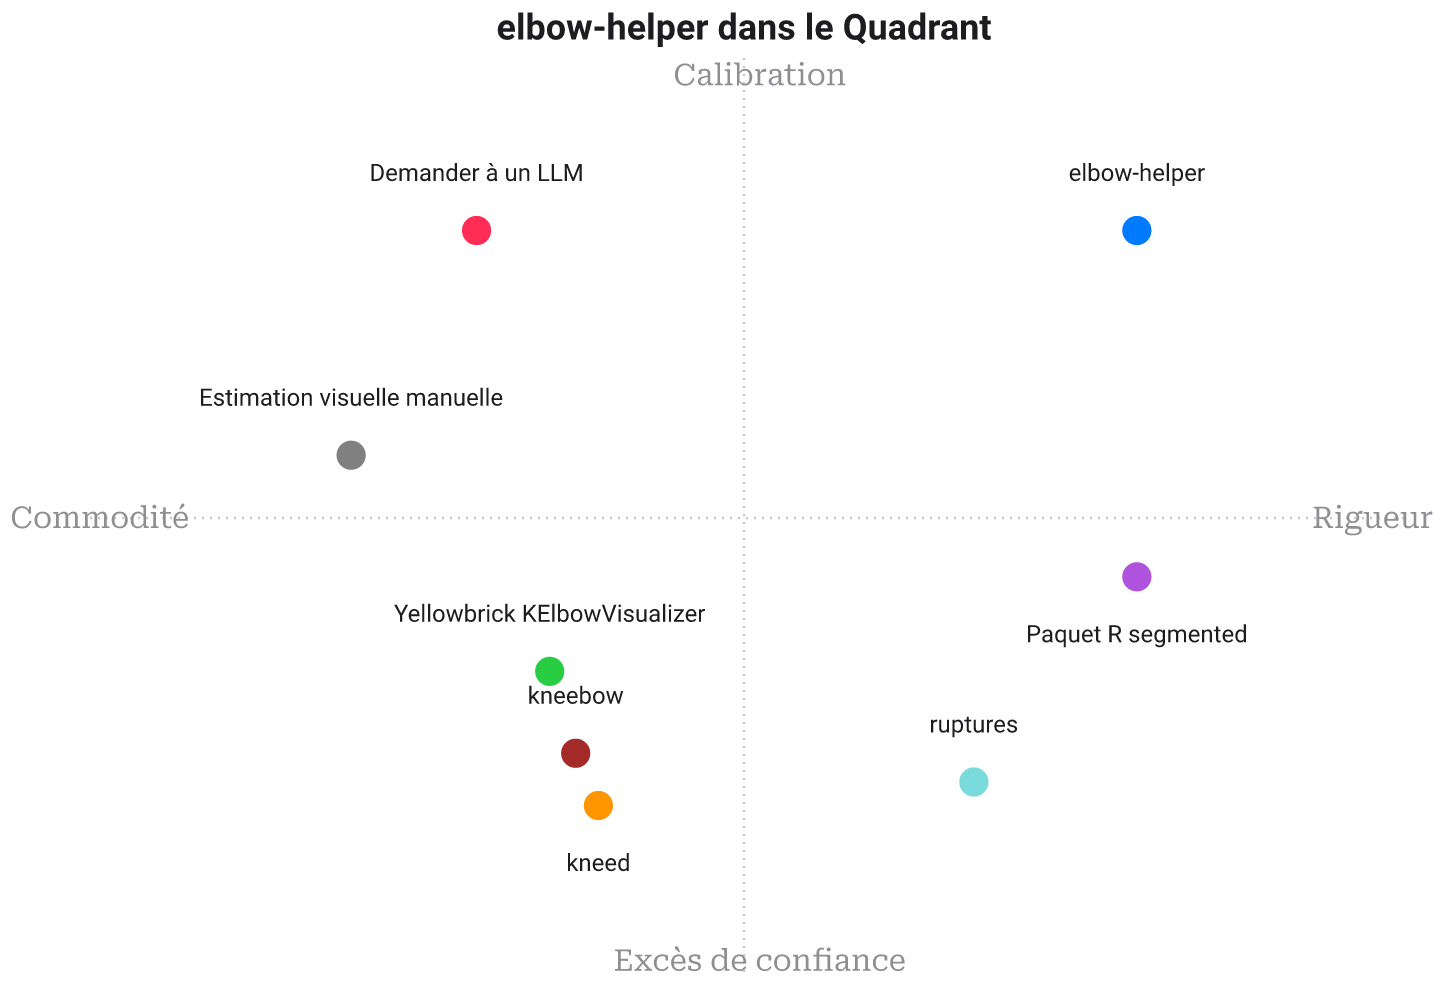
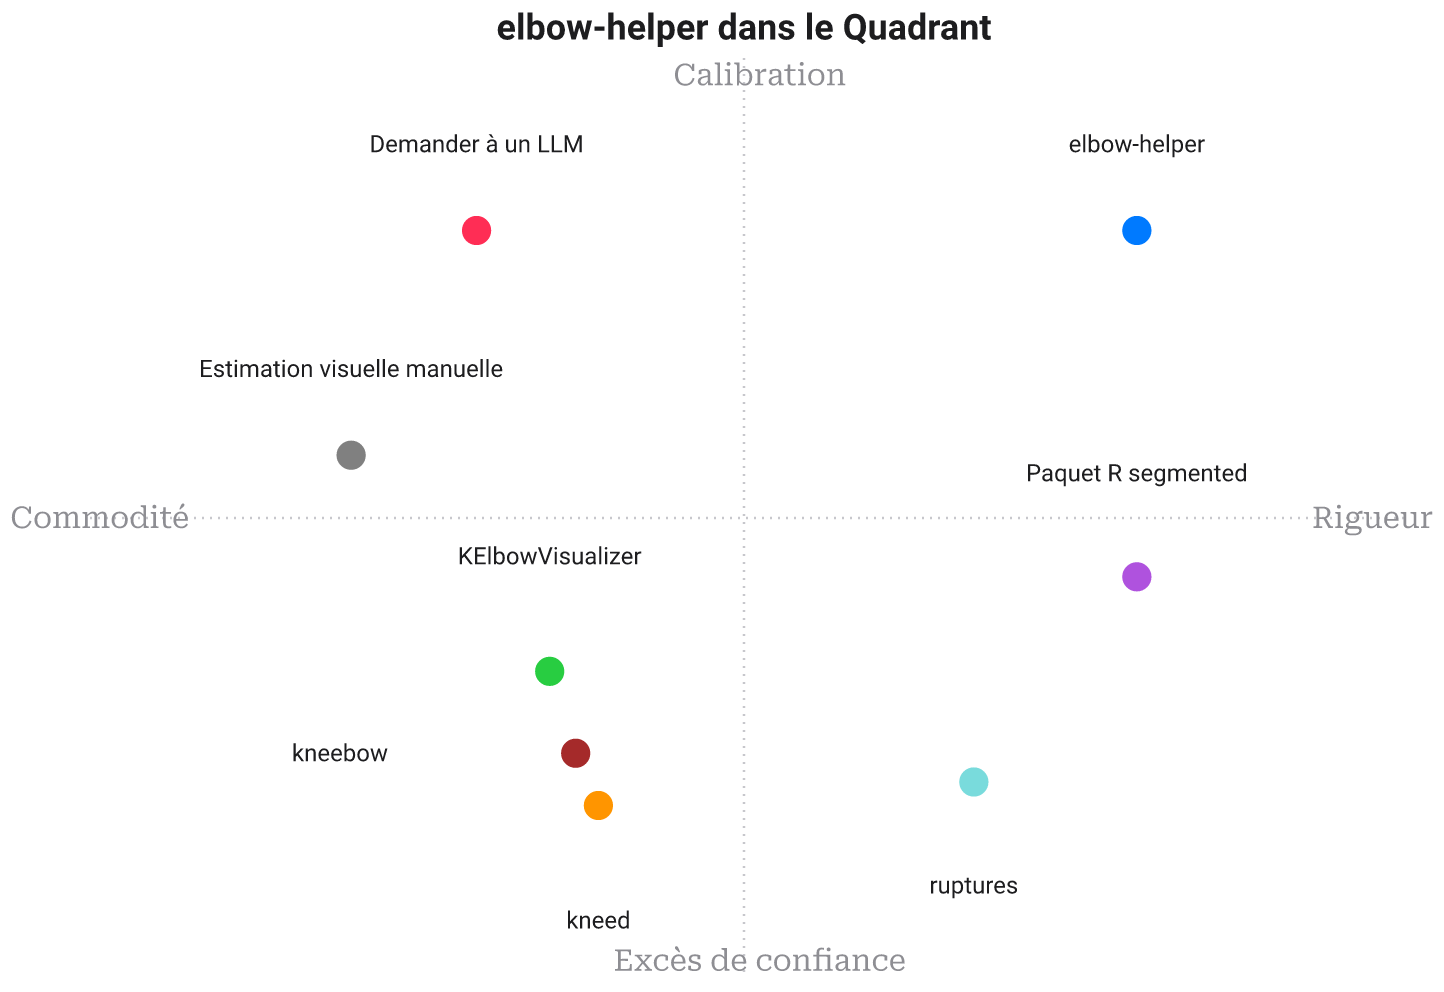
Fix label crowding in the landscape quadrant and sync tables from CSV
Each of the three close-together bottom-left points (KElbowVisualizer,
kneebow, kneed) now gets its own direction (up, left, down) instead of
stacking labels in the same band; text no longer sits on top of its own
or a neighbour's dot. Also regenerates the LANDSCAPE.md/PAYSAGE.md star
tables directly from assets/landscape.csv and assets/paysage.csv, and
carries over the CSV's own shortened KElbowVisualizer row label.

diff --git a/LANDSCAPE.md b/LANDSCAPE.md
@@ -12,13 +12,13 @@ How `elbow-helper` compares to *every other way of finding a knee*. Each approac
 
 ![Positioning map: elbow-helper vs. other knee/elbow detection approaches](assets/landscape.png)
 
-| Knee/Elbow Detection Tool | Noise Robustness | Automatic Shape Inference | Explicit Abstention | Multiple Breakpoints | Statistical Significance Testing | Uncertainty Quantification | Model-Selection Rigor | Dependency Footprint | One-Call Ease of Use | Reproducibility | Published Math/Derivation |
+| Elbow Detection Tool | Noise Robustness | Automatic Shape Inference | Explicit Abstention | Multiple Breakpoints | Statistical Significance Testing | Uncertainty Quantification | Model-Selection Rigor | Dependency Footprint | One-Call Ease of Use | Reproducibility | Published Math/Derivation |
 | --- | --- | --- | --- | --- | --- | --- | --- | --- | --- | --- | --- |
 | **elbow-helper** | ⭐⭐⭐⭐⭐ | ⭐⭐⭐⭐⭐ | ⭐⭐⭐⭐⭐ | ⭐⭐⭐⭐⭐ | ⭐⭐⭐⭐⭐ | ⭐⭐⭐⭐⭐ | ⭐⭐⭐⭐⭐ | ⭐⭐⭐⭐⭐ | ⭐⭐⭐⭐ | ⭐⭐⭐⭐⭐ | ⭐⭐⭐⭐⭐ |
 | **kneed** | ⭐⭐ | ⭐⭐ | ⭐ | ⭐⭐ | ⭐ | ⭐ | ⭐ | ⭐⭐⭐⭐ | ⭐⭐⭐⭐⭐ | ⭐⭐⭐⭐⭐ | ⭐⭐⭐ |
 | **ruptures** | ⭐⭐⭐ | ⭐ | ⭐⭐ | ⭐⭐⭐⭐⭐ | ⭐⭐ | ⭐ | ⭐⭐⭐ | ⭐⭐⭐ | ⭐⭐⭐ | ⭐⭐⭐⭐⭐ | ⭐⭐⭐⭐ |
 | **kneebow** | ⭐⭐ | ⭐⭐⭐ | ⭐ | ⭐ | ⭐ | ⭐ | ⭐ | ⭐⭐⭐⭐⭐ | ⭐⭐⭐⭐ | ⭐⭐⭐⭐⭐ | ⭐⭐ |
-| **Yellowbrick KElbowVisualizer** | ⭐⭐ | ⭐⭐⭐ | ⭐⭐ | ⭐ | ⭐ | ⭐ | ⭐ | ⭐ | ⭐⭐⭐⭐⭐ | ⭐⭐⭐⭐ | ⭐⭐⭐ |
+| **KElbowVisualizer** | ⭐⭐ | ⭐⭐⭐ | ⭐⭐ | ⭐ | ⭐ | ⭐ | ⭐ | ⭐ | ⭐⭐⭐⭐⭐ | ⭐⭐⭐⭐ | ⭐⭐⭐ |
 | **R segmented package** | ⭐⭐⭐ | ⭐⭐ | ⭐⭐ | ⭐⭐⭐⭐ | ⭐⭐⭐⭐ | ⭐⭐⭐⭐ | ⭐⭐⭐ | ⭐⭐ | ⭐⭐ | ⭐⭐⭐⭐ | ⭐⭐⭐⭐⭐ |
 | **Manual eyeballing** | ⭐ | ⭐ | ⭐⭐⭐ | ⭐⭐ | ⭐ | ⭐ | ⭐ | ⭐⭐⭐⭐⭐ | ⭐⭐⭐⭐⭐ | ⭐ | ⭐ |
 | **Ask an LLM** | ⭐⭐ | ⭐⭐⭐⭐ | ⭐⭐⭐ | ⭐⭐⭐ | ⭐ | ⭐⭐ | ⭐ | ⭐⭐ | ⭐⭐⭐⭐⭐ | ⭐⭐ | ⭐ |

diff --git a/PAYSAGE.md b/PAYSAGE.md
@@ -18,7 +18,7 @@ Comment `elbow-helper` se compare à *toutes les autres façons de trouver un co
 | **kneed** | ⭐⭐ | ⭐⭐ | ⭐ | ⭐⭐ | ⭐ | ⭐ | ⭐ | ⭐⭐⭐⭐ | ⭐⭐⭐⭐⭐ | ⭐⭐⭐⭐⭐ | ⭐⭐⭐ |
 | **ruptures** | ⭐⭐⭐ | ⭐ | ⭐⭐ | ⭐⭐⭐⭐⭐ | ⭐⭐ | ⭐ | ⭐⭐⭐ | ⭐⭐⭐ | ⭐⭐⭐ | ⭐⭐⭐⭐⭐ | ⭐⭐⭐⭐ |
 | **kneebow** | ⭐⭐ | ⭐⭐⭐ | ⭐ | ⭐ | ⭐ | ⭐ | ⭐ | ⭐⭐⭐⭐⭐ | ⭐⭐⭐⭐ | ⭐⭐⭐⭐⭐ | ⭐⭐ |
-| **Yellowbrick KElbowVisualizer** | ⭐⭐ | ⭐⭐⭐ | ⭐⭐ | ⭐ | ⭐ | ⭐ | ⭐ | ⭐ | ⭐⭐⭐⭐⭐ | ⭐⭐⭐⭐ | ⭐⭐⭐ |
+| **KElbowVisualizer** | ⭐⭐ | ⭐⭐⭐ | ⭐⭐ | ⭐ | ⭐ | ⭐ | ⭐ | ⭐ | ⭐⭐⭐⭐⭐ | ⭐⭐⭐⭐ | ⭐⭐⭐ |
 | **Paquet R segmented** | ⭐⭐⭐ | ⭐⭐ | ⭐⭐ | ⭐⭐⭐⭐ | ⭐⭐⭐⭐ | ⭐⭐⭐⭐ | ⭐⭐⭐ | ⭐⭐ | ⭐⭐ | ⭐⭐⭐⭐ | ⭐⭐⭐⭐⭐ |
 | **Estimation visuelle manuelle** | ⭐ | ⭐ | ⭐⭐⭐ | ⭐⭐ | ⭐ | ⭐ | ⭐ | ⭐⭐⭐⭐⭐ | ⭐⭐⭐⭐⭐ | ⭐ | ⭐ |
 | **Demander à un LLM** | ⭐⭐ | ⭐⭐⭐⭐ | ⭐⭐⭐ | ⭐⭐⭐ | ⭐ | ⭐⭐ | ⭐ | ⭐⭐ | ⭐⭐⭐⭐⭐ | ⭐⭐ | ⭐ |
